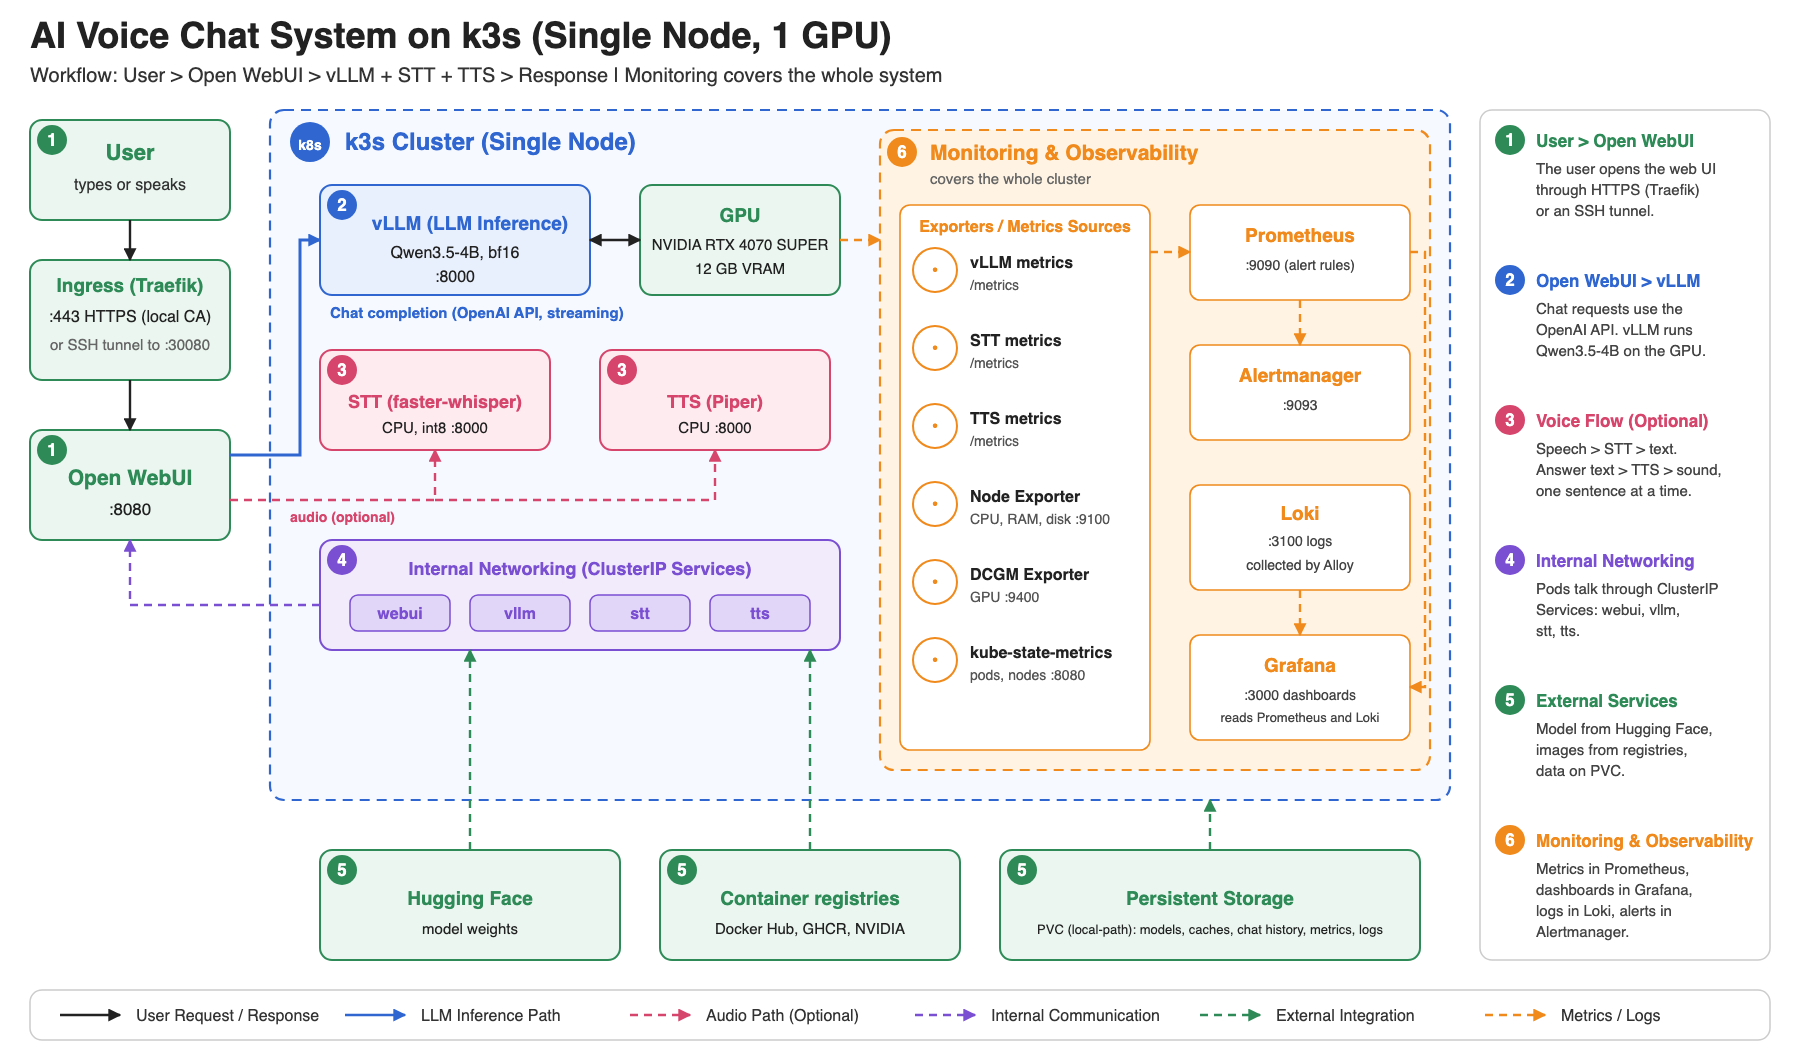
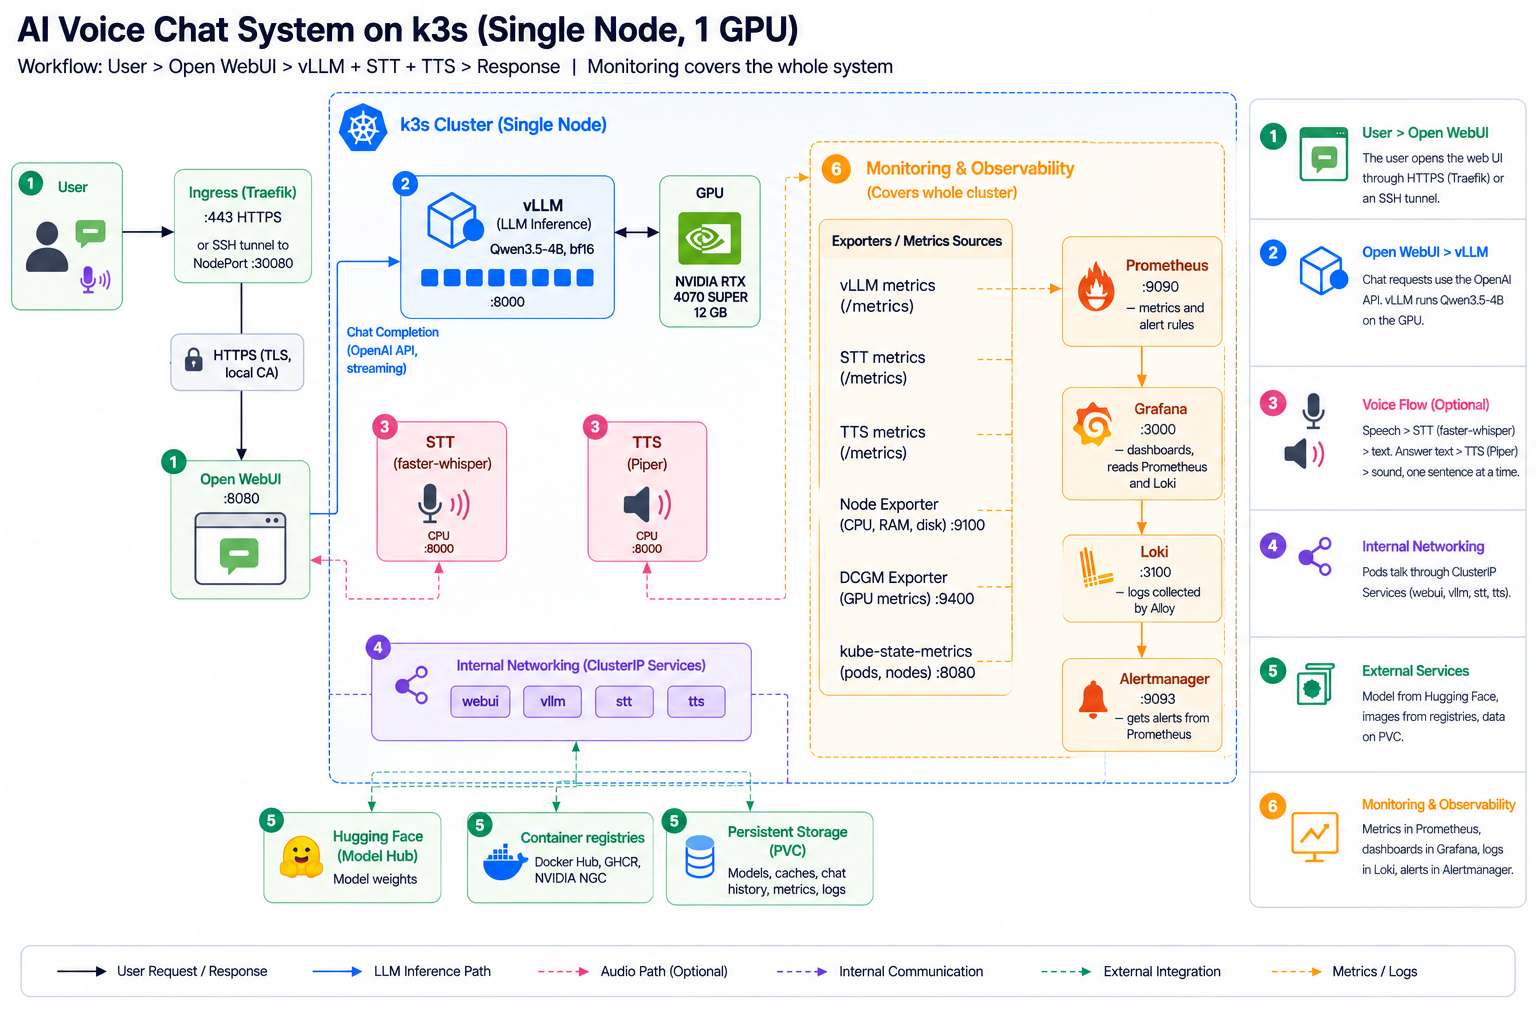
docs: use the ChatGPT diagram as docs/workflow.png
Made from the reference diagram. The SVG drawn as code stays as the accurate vector version.
Known issues of the PNG are noted in ticket 16.

diff --git a/.scratch/vllm-genai-poc/issues/16-diagram.md b/.scratch/vllm-genai-poc/issues/16-diagram.md
@@ -6,7 +6,7 @@
 
 **Status:** ready-for-human
 
-**Test status:** the diagram exists: `docs/workflow.svg` (drawn as code by the agent) and `docs/workflow.png` (rendered from it). The prompt for an AI-made version is in `docs/diagram-prompt.md`. Every part in the diagram has a manifest in the repository. Check the diagram against the full run later (ticket box 3 stays open).
+**Test status:** the diagram exists. `docs/workflow.png` was made with ChatGPT from the reference diagram. `docs/workflow.svg` is the same system drawn as code, with correct arrows in the monitoring box. Known issues of the PNG, to fix later: in the monitoring box the arrows Grafana > Loki and Loki > Alertmanager are wrong (the real ones are Prometheus > Alertmanager, Loki > Grafana, Prometheus > Grafana), and the purple dashed line from Internal Networking to Open WebUI is cut. Check the word "Traefik" in the image. The prompt is in `docs/diagram-prompt.md`. Box 3 (matches the deployed system) stays open until the full run.
 
 - [x] The agent writes an image prompt that lists every component, port, and data path of our system, in the style of the reference diagram
 - [ ] The user creates the image with an AI image tool and saves it in the docs folder

diff --git a/docs/diagram-prompt.md b/docs/diagram-prompt.md
@@ -1,8 +1,8 @@
 # Prompt for the workflow diagram
 
-The file `docs/workflow.svg` is a diagram drawn as code, and `docs/workflow.png` is its image. It shows
-the same system. Use this prompt in an AI image tool only if you want a different look. Save the
-result as `docs/workflow.png`. Then check the image
+The file `docs/workflow.png` was made with ChatGPT from the diagram of the reference project. The file
+`docs/workflow.svg` shows the same system, drawn as code. Use this prompt in an AI image tool to make
+a new version. Save the result as `docs/workflow.png`. Then check the image
 against the list "Check the image" below. Fix the prompt and generate again if a check fails.
 
 The diagram shows only parts that exist in this repository. It must not show the LLM-D router,

diff --git a/README.md b/README.md
@@ -139,7 +139,7 @@ Loki, Alertmanager, and the HTTPS pages of Open WebUI and Grafana.
 | `speech/stt/`, `speech/tts/` | The faster-whisper (STT) and Piper (TTS) servers |
 | `vllm/` | Dockerfile of the vLLM image (it mounts the adapter folder) |
 | `bench/` | Benchmark harness, lever script, quality check, dashboard generator, smoke test |
-| `docs/` | `GUIDE.md`, `setup.md`, `benchmarks.md`, `workflow.png` (source: `workflow.svg`), `diagram-prompt.md` |
+| `docs/` | `GUIDE.md`, `setup.md`, `benchmarks.md`, `workflow.png` (made with ChatGPT), `workflow.svg` (the same system drawn as code), `diagram-prompt.md` |
 | `.scratch/` | The spec and the tickets of this project |
 
 ---
